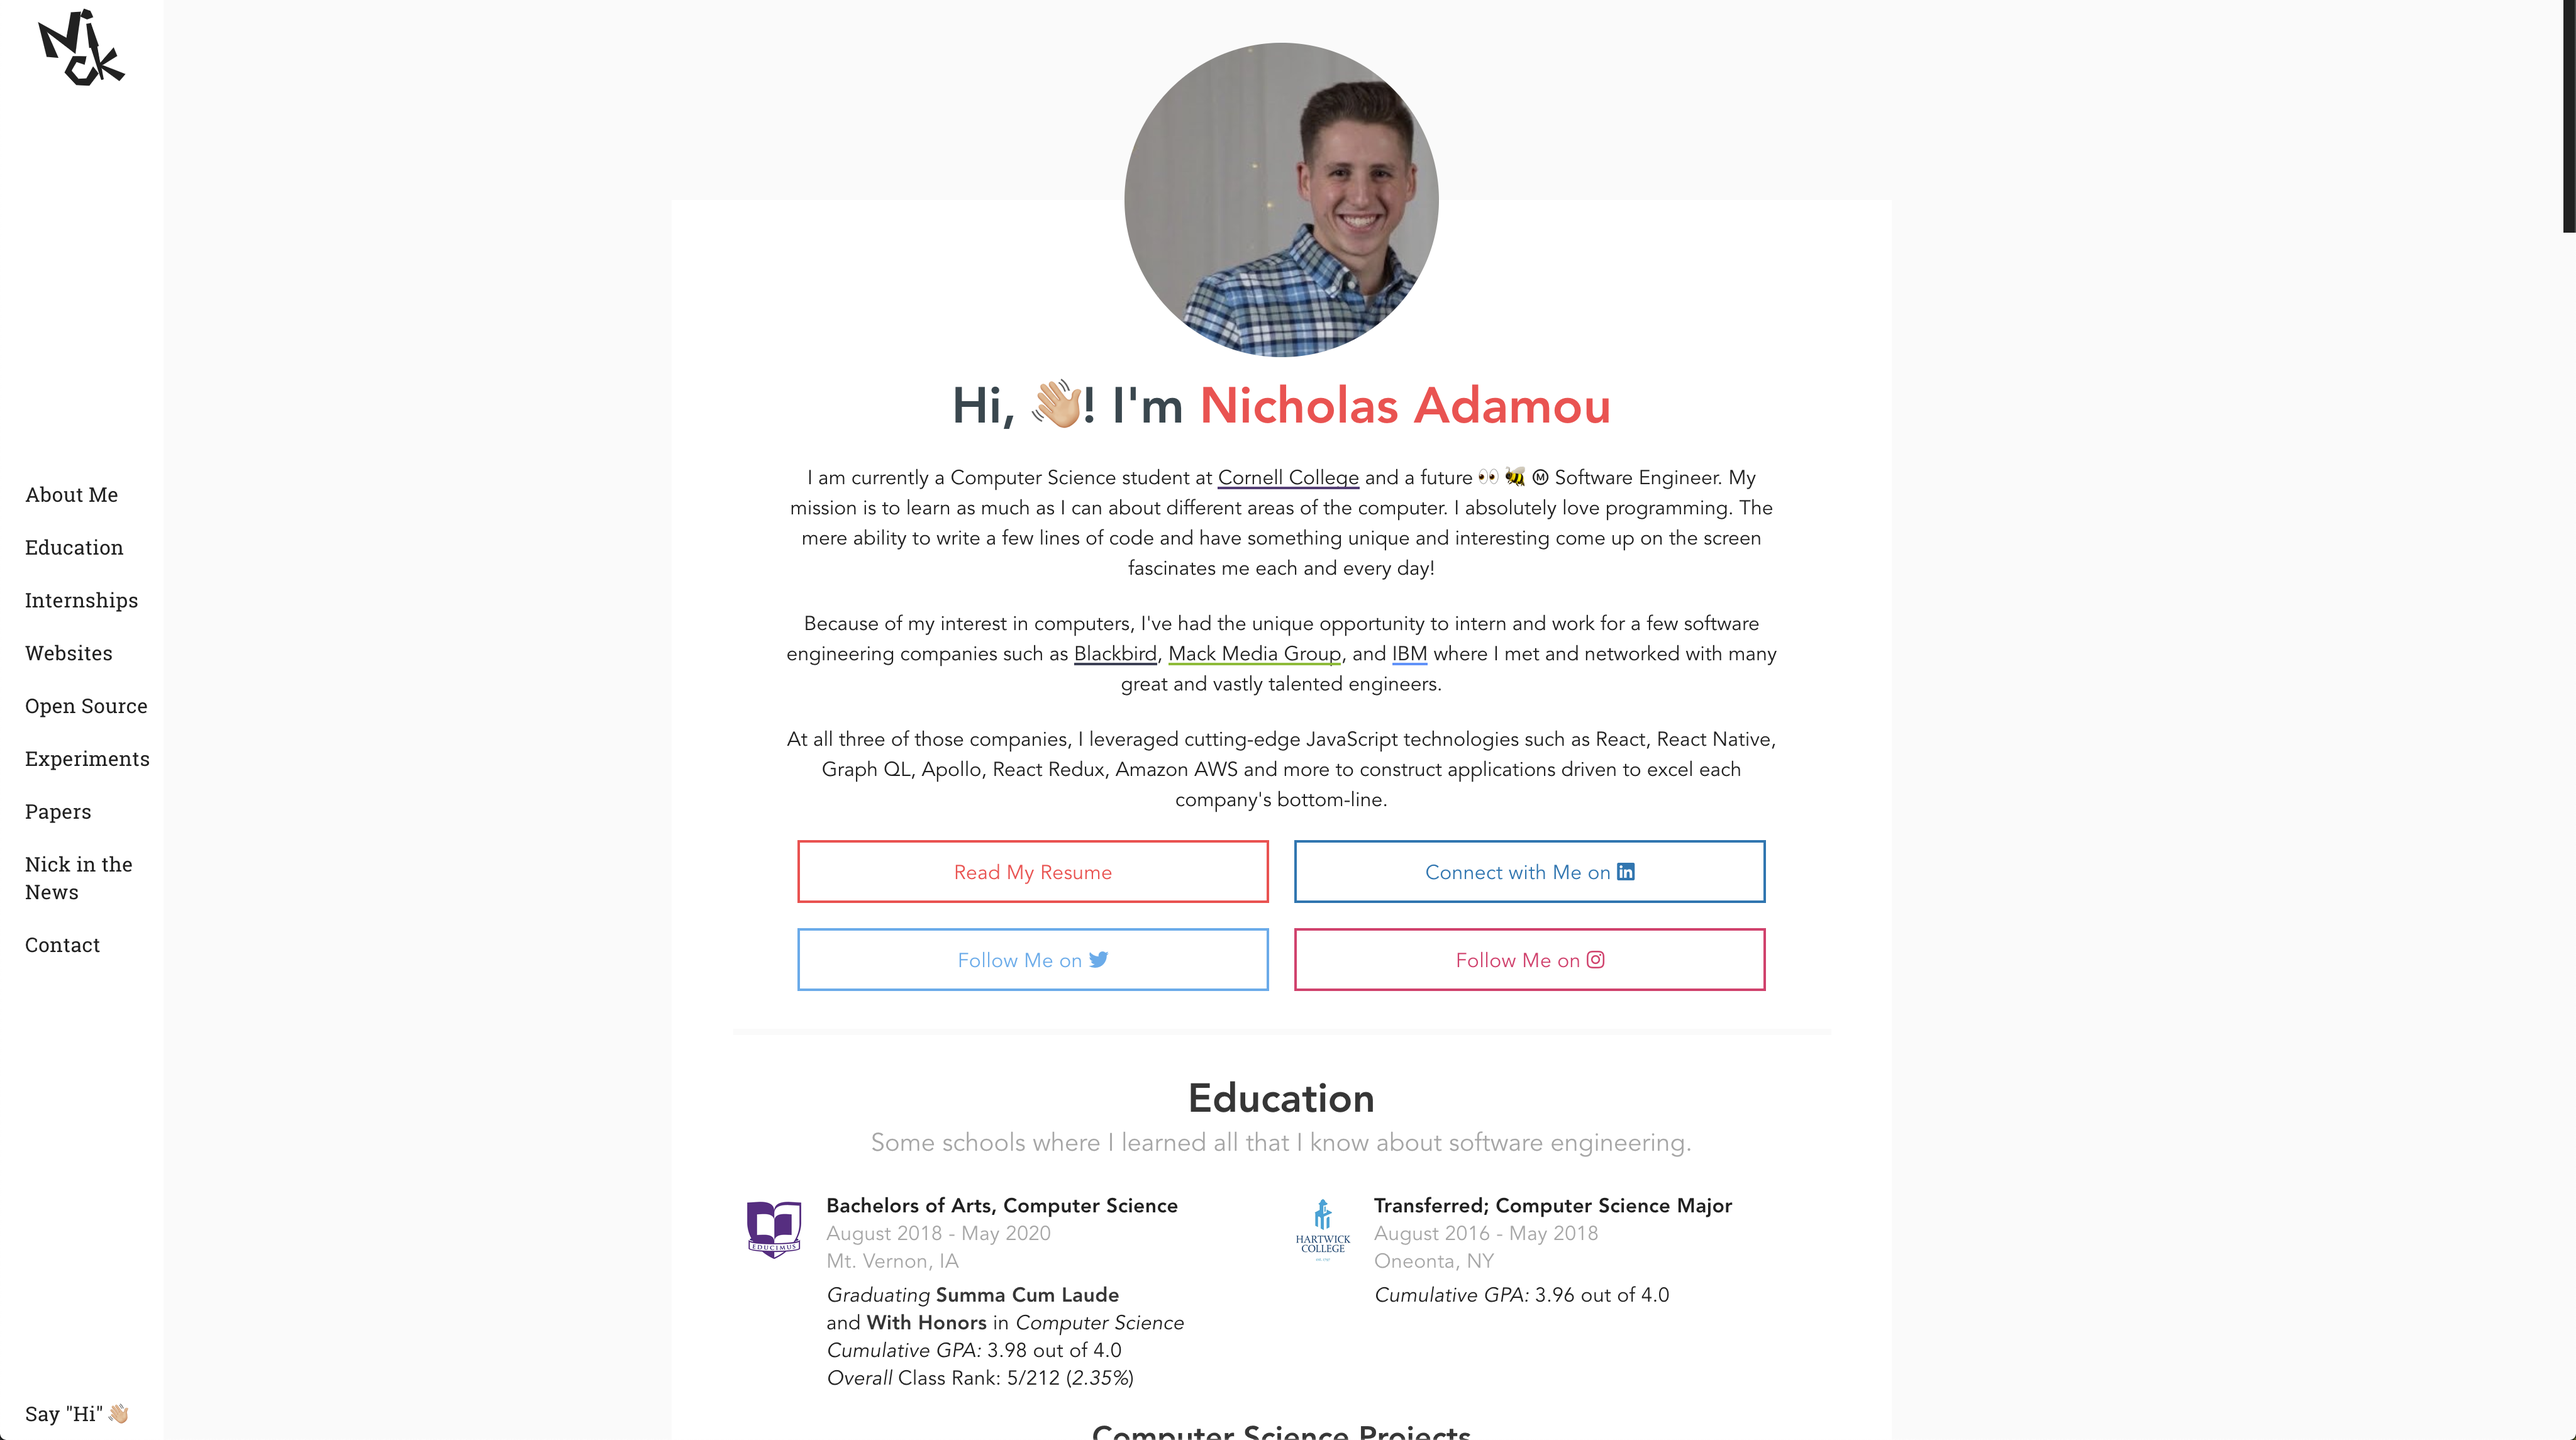
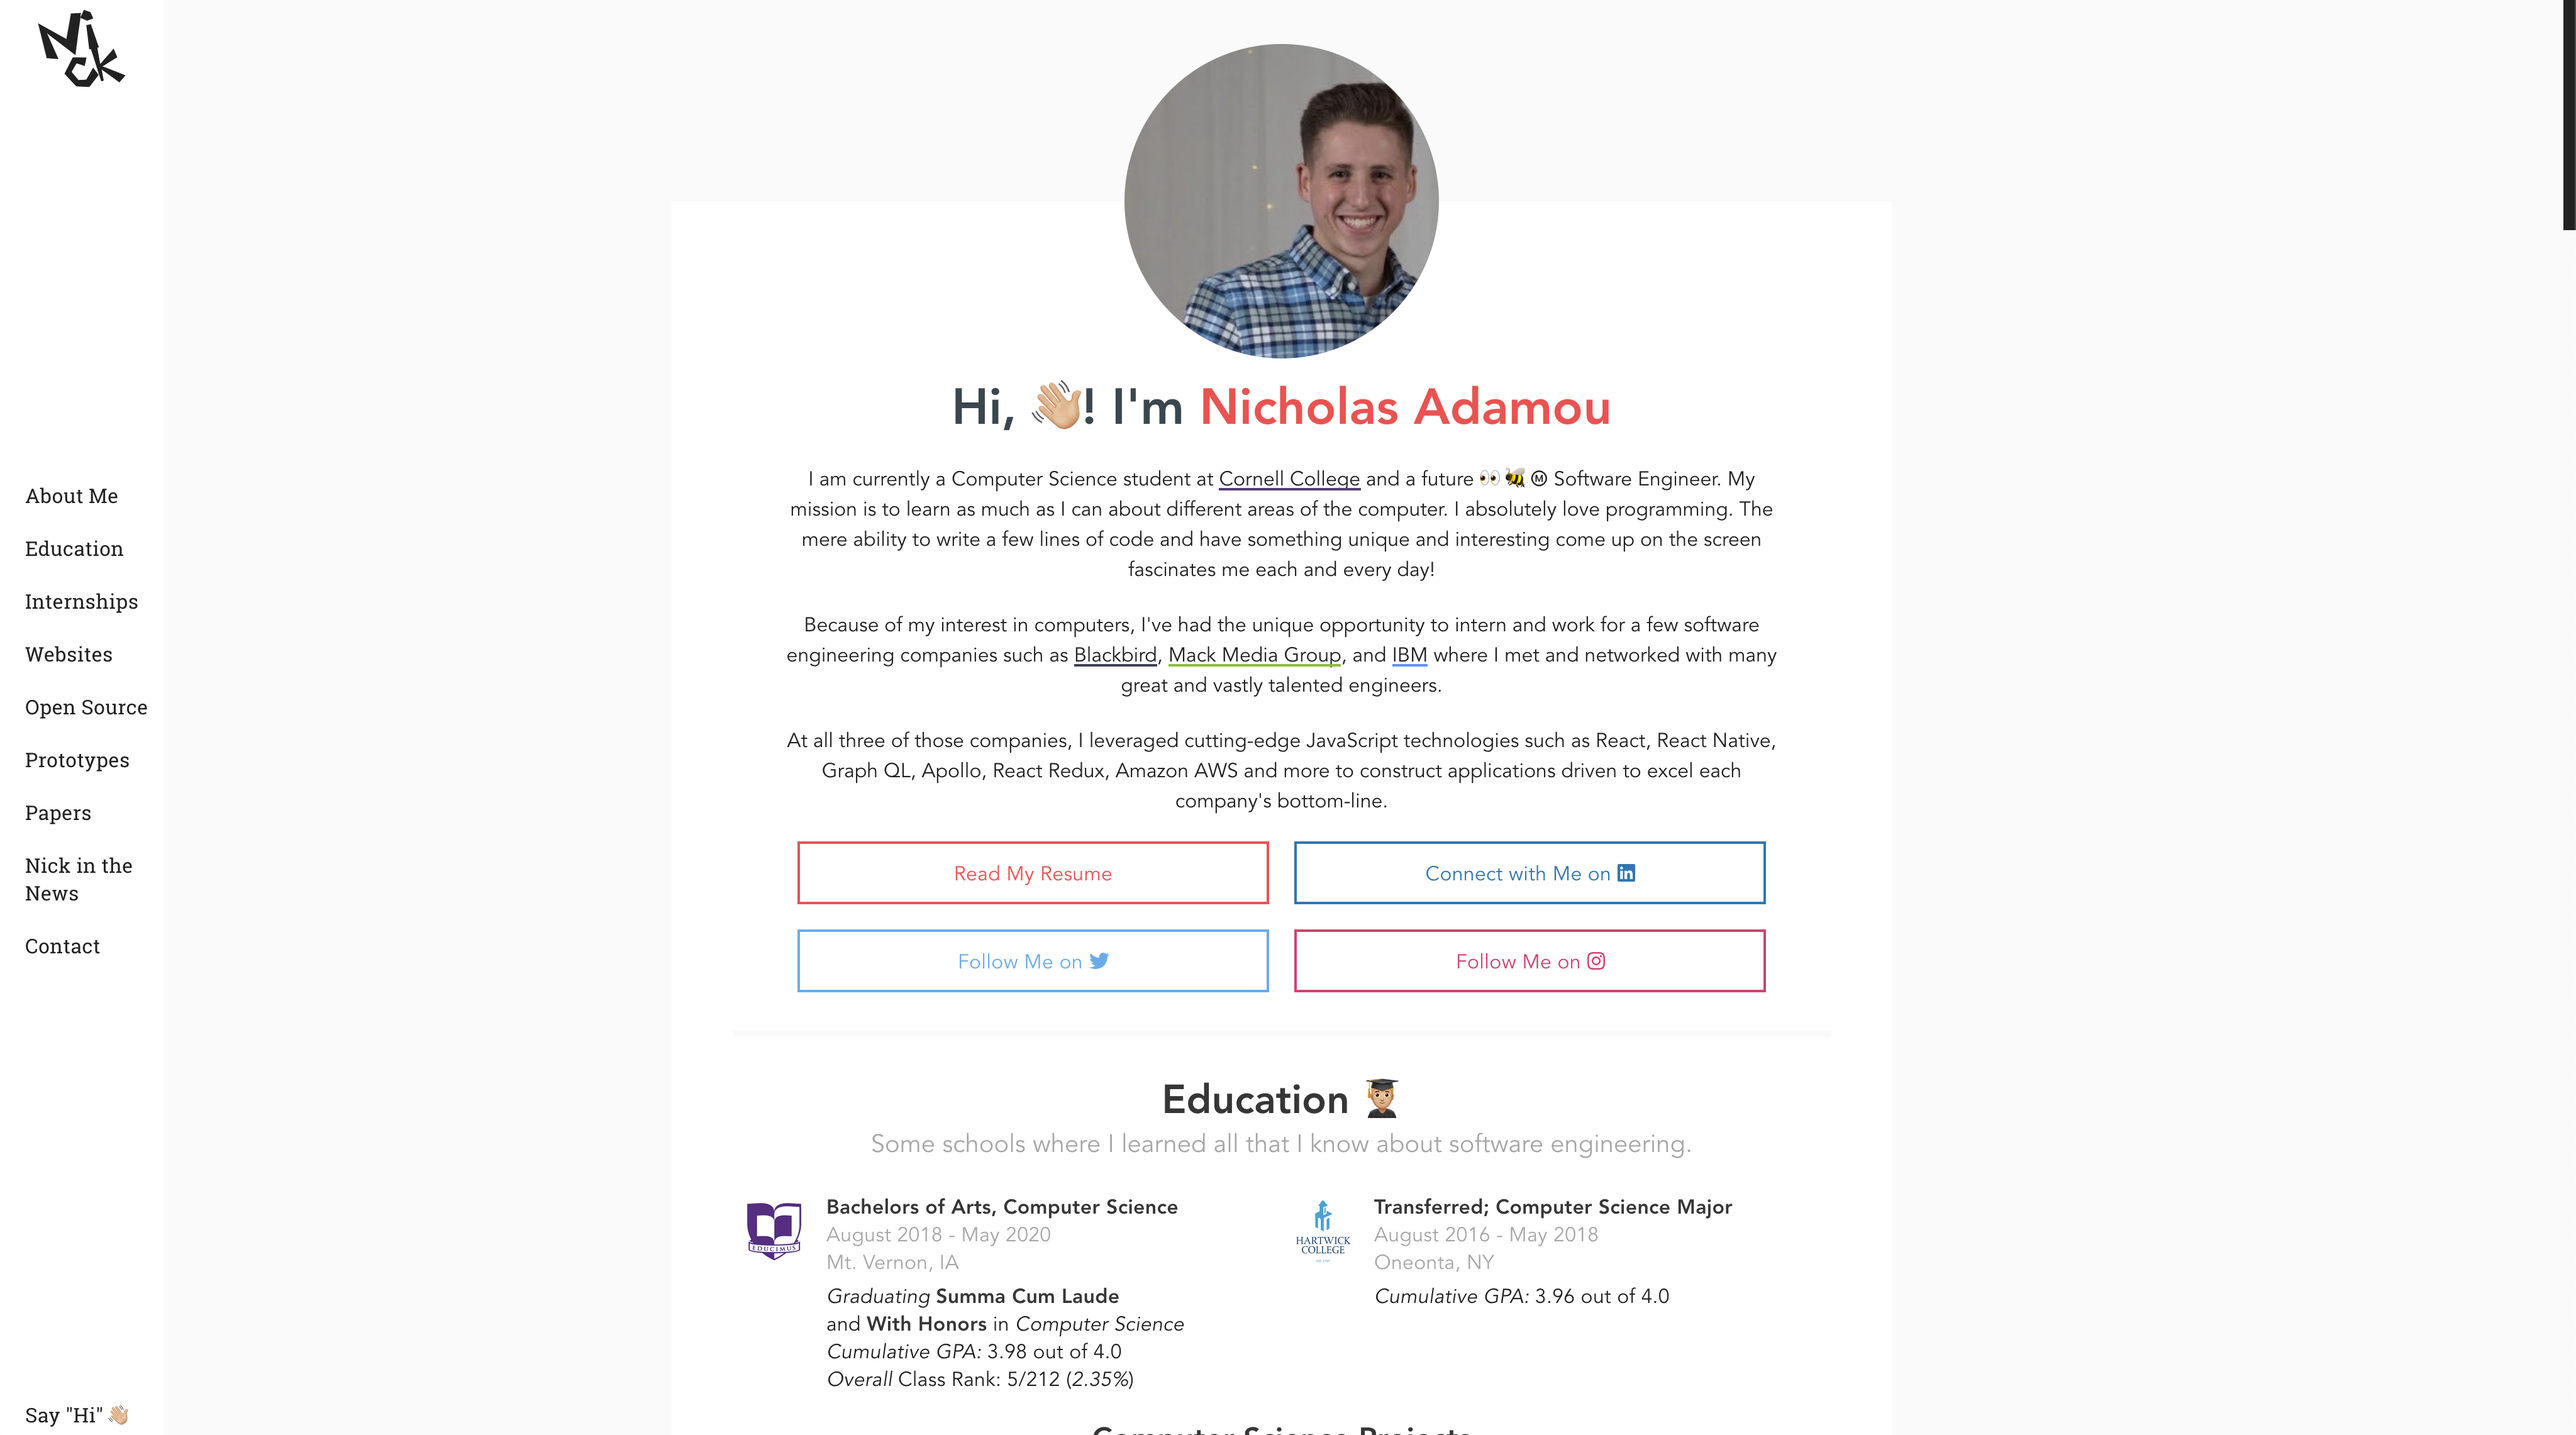
added more emoji's

diff --git a/src/sections/Education/Education.js b/src/sections/Education/Education.js
@@ -14,6 +14,8 @@ import styled from "styled-components";
 
 import { device, until } from "../../utilities/mixins";
 
+import { FontAwesomeIcon } from "@fortawesome/react-fontawesome";
+
 const Container = styled.section`
   padding: 0 25px;
 `;
@@ -38,7 +40,12 @@ const Experiences = styled.div`
 
 const Education = () => (
   <Container id="education">
-    <h2 className="title">Education</h2>
+    <h2 className="title">
+      Education{" "}
+      <span role="img" aria-label="graduate">
+        👨🏼🎓
+      </span>
+    </h2>
     <p className="subtitle">
       Some schools where I learned all that I know about software engineering.
     </p>

diff --git a/src/sections/Internships/Internships.js b/src/sections/Internships/Internships.js
@@ -84,7 +84,12 @@ const Experiences = styled.div`
 
 const Internships = () => (
   <Container>
-    <h2 className="title">Internships</h2>
+    <h2 className="title">
+      Internships{" "}
+      <span role="img" aria-label="coder">
+        👨🏼💻
+      </span>
+    </h2>
     <p className="subtitle">
       Some companies where I've had the privilege to intern at in the past.
     </p>
